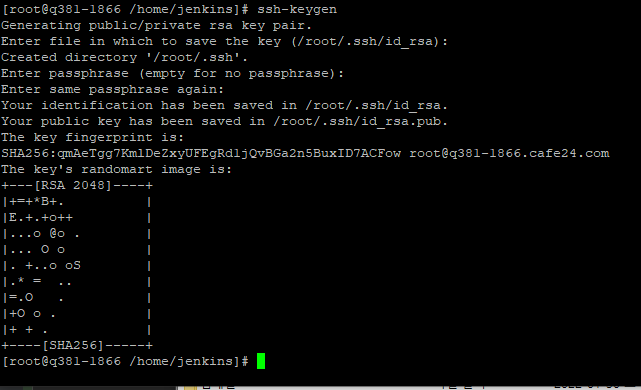
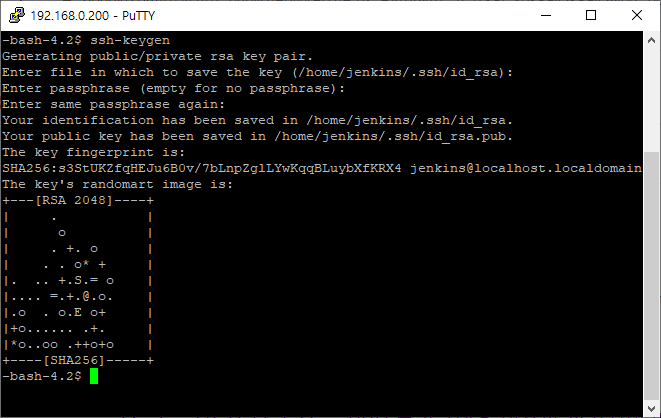
jenkins를_이용한_배포_자동화_구축(3).md 작성

Changed region(s): [[0.0, 0.0, 1.0, 1.0]]

diff --git a/jenkins/jenkins를_이용한_배포_자동화_구축(2).md b/jenkins/jenkins를_이용한_배포_자동화_구축(2).md
@@ -1,6 +1,6 @@
 # Jenkins를 이용한 배포 자동화(2) - Jenkins & Github 연동 방법
 
-Jenkins와 Github 연동은 Github에서 제공하는 Github Webhook 을 이용하도록 하겠습니다
+Jenkins와 Github 연동은 Github에서 제공하는 Github Webhook 을 이용하도록 하겠습니다.
 
 아직 Jenkins 환경이 구축되지 않았다면 [Jenkins를 이용한 배포 자동화(1) - Docker로 Jenkins 설치 방법](/jenkins를_이용한_배포_자동화_구축(1).md) 에서 확인할 수 있습니다
 
@@ -13,16 +13,16 @@ Webhook는 역방향 API라고 불리는데 일반적인 API는 요청을 하면
 
 ## 1. GitHub Integration Plugin 설치
 
-젠킨스 메인화면 좌측의 Jenkins 관리 -> 플러그인 관리 메뉴를 클릭합니다
+젠킨스 메인화면 좌측의 Jenkins 관리 -> 플러그인 관리 메뉴를 클릭합니다.
 
 ![jenkins_plugin.png](../images/jenkins_plugin.png)
 
-설치가능 탭에서 `GitHub Integration` 을 검색하고 `Download now and install after restart` 버튼을 눌러 설치합니다
+설치가능 탭에서 `GitHub Integration` 을 검색하고 `Download now and install after restart` 버튼을 눌러 설치합니다.
 
 ![github_integration.png](../images/github_integration1.png)
 
 플러그인 적용을 위해 `설치가 끝나고 실행중인 작업이 없으면 Jenkins 재시작.` 항목에 체크를 하고 Jenkins를 재시작합니다. 만약 설치가 완료되어도 반응이 없거나, 체크박스에 클릭을 미처하지 못했다면
-아래의 URL로 이동하여 Jenkins를 재시작 할 수 있습니다
+아래의 URL로 이동하여 Jenkins를 재시작 할 수 있습니다.
 
 ```
 호스트 IP:9999/restart
@@ -32,8 +32,8 @@ Webhook는 역방향 API라고 불리는데 일반적인 API는 요청을 하면
 
 ## 2. SSH key 발급
 
-젠킨스가 설치되어있는 서버로 이동하여 아래의 명령어를 입력한다. 필자는 jenkins 라는 계정을 생성하여 해당 디렉토리에 생성하였다. 지금은 다른 설정을 할 필요가 없으므로 Enter 버튼을 계속 눌러 진행하면
-된다
+젠킨스가 설치되어있는 서버로 이동하여 아래의 명령어를 입력한다. 글쓴이는 jenkins 라는 계정을 생성하여 해당 디렉토리에 생성하였습니다. 지금은 다른 설정을 할 필요가 없으므로 Enter 버튼을 계속 눌러 진행하면
+됩니다.
 
 ```
 ssh-keygen
@@ -41,7 +41,7 @@ ssh-keygen
 
 ![ssh_keygen.png](../images/ssh_keygen.png)
 
-public key와 private key가 생성되었다면 public key를 복사한다.
+public key와 private key가 생성되었다면 public key를 복사합니다.
 
 ```
 cat .ssh/id_rsa.pub
@@ -109,6 +109,6 @@ cat .ssh/id_rsa.pub
 
 Github와 Jenkins 연동이 완료되었다면 원격서버를 배포하기 위한 과정이 남았습니다
 
-`Publish over SSH` 를 이용한 원격서버 배포는 다음 포스팅에 이어서 작성하겠습니다.
+`Publish over SSH` 를 이용한 원격서버 배포는 다음 포스팅에 이어서 진행하겠습니다.
 
 

diff --git a/jenkins/jenkins를_이용한_배포_자동화_구축(3).md b/jenkins/jenkins를_이용한_배포_자동화_구축(3).md
@@ -1,0 +1,30 @@
+# Jenkins를 이용한 배포 자동화(3) - Publish Over SSH 를 이용한 원격 서버 배포
+
+> Publish over SSH 플러그인이 2022년 1월 12일 부로 젠킨스 보안 정책으로 인해 배포가 중단되었습니다.
+>
+> https://www.jenkins.io/security/advisory/2022-01-12/
+
+Publish Over SSH plugin 을 사용하면 원격 서버에 SSH를 통한 배포를 할 수 있습니다.
+
+## SSH란?
+
+SSH란 `Secure Shell Protocol` 의 약자로 네트워크 상의 다른 컴퓨터에 로그인 하거나 원격 시스템에서 명령을 실행하고 다른 시스템으로 파일을 복사할 수 있도록 해주는 응용 프로그램 또는 그
+프로토콜은 가리킵니다.
+
+## 1. Publish Over SSH 설치
+
+현재 젠킨스 플러그인 관리를 통한 설치가 불가능 하기 때문에 직접 `.hpi` 확장자를 다운로드 하여 설치해야 합니다.
+
+https://archives.jenkins-ci.org/plugins/publish-over-ssh/latest/ 에 접속하여 `publish-over-ssh.hpi` 파일을 다운로드 합니다.
+
+`Jenkins 관리` -> `플러그인 관리` -> `고급` -> `플러그인 올리기` 으로 이동하여 다운로드 파일을 첨부 후 `올리기` 버튼을 클릭하면 설치를 수동으로 진행할 수 있습니다.
+
+![hpi.png](hpi.png)
+
+## 2. Publish Over SSH 설정
+
+젠킨스 서버 터미널에 다음과 같이 명령어를 입력합니다.
+
+```
+ssh-keygen -t rsa -C "jenkins" -m PEM -P "" -f /home/jenkins/.ssh/id_rsa
+```

diff --git a/jenkins/jenkins를_이용한_배포_자동화_구축(1).md b/jenkins/jenkins를_이용한_배포_자동화_구축(1).md
@@ -80,6 +80,6 @@ Start using Jenkins 버튼을 클릭하면 Jenkins 메인화면이 나옵니다.
 
 ![jenkins_main](../images/jenkins_main.png)
 
-배포 자동화를 위한 Docker를 이용한 Jenkins 설치가 모두 끝났습니다
+배포 자동화를 위한 Docker를 이용한 Jenkins 설치가 모두 끝났습니다.
 
-Github Webhook 을 이용한 Jenkins 와 Github 연동은 다음 포스팅에 이어서 작성하겠습니다
+Github Webhook 을 이용한 Jenkins 와 Github 연동은 다음 포스팅에 이어서 진행하겠습니다.
